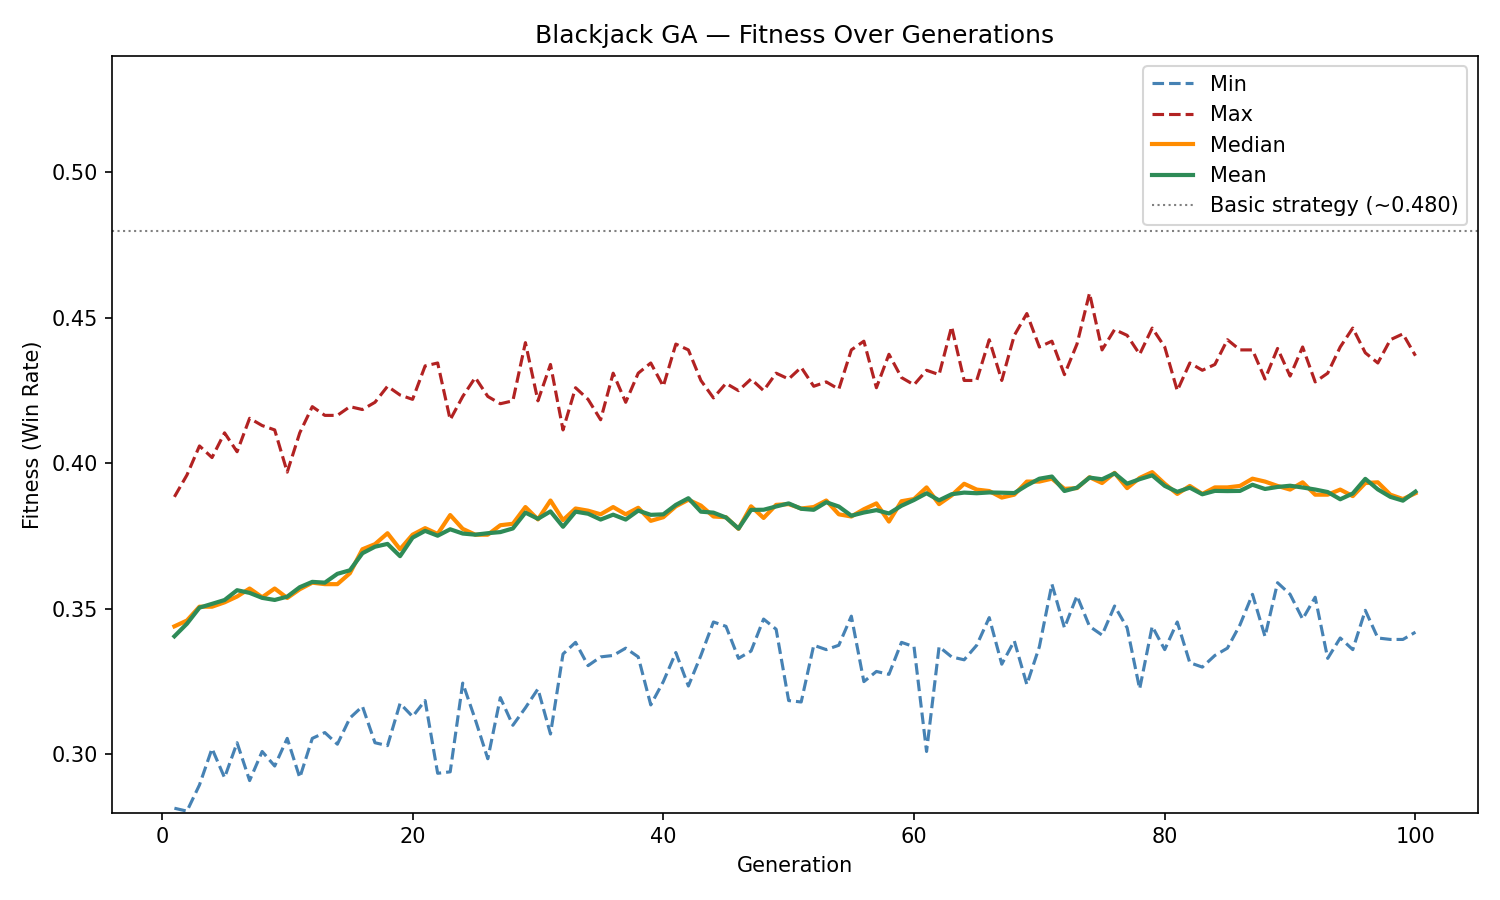
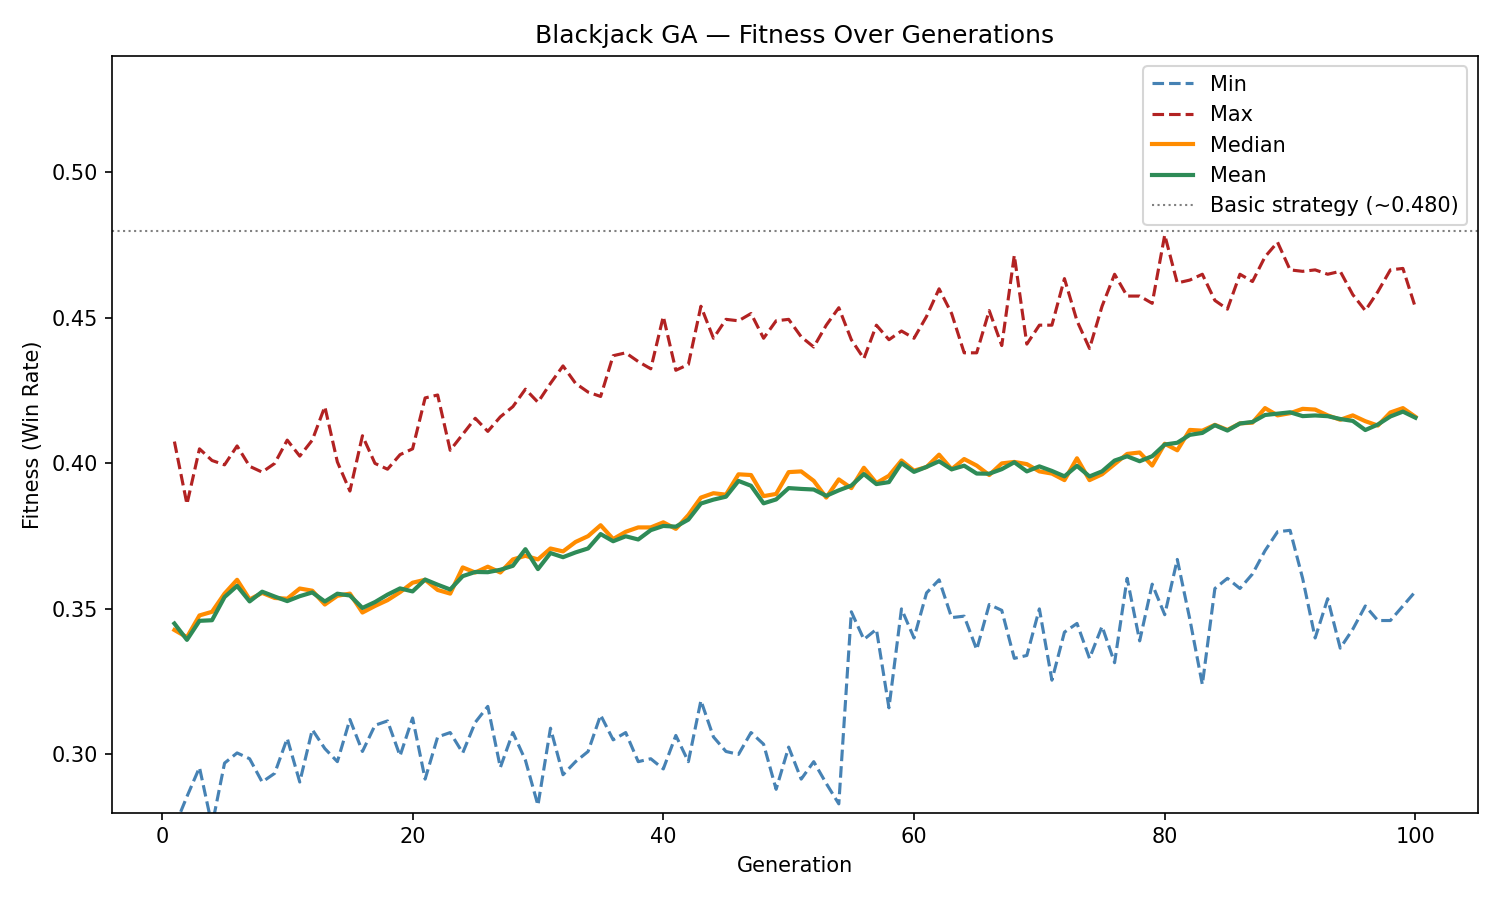
Fix dealer soft-17 rule to stand on all 17s (S17)
The dealer was incorrectly hitting on soft 17 (H17 rule). Changed to
stand on any total >= 17 per the assignment spec, and regenerated output figures.

diff --git a/blackjack_ga.py b/blackjack_ga.py
@@ -68,10 +68,10 @@ def play_hand(strategy_fn):
     if p_total > 21:
         return 'loss'
 
-    # Dealer turn: stand on hard 17+, hit on soft 17 and below
+    # Dealer turn: stand on all 17s (S17 rule)
     while True:
-        d_total, d_soft = hand_value(dealer)
-        if d_total > 17 or (d_total == 17 and not d_soft):
+        d_total, _ = hand_value(dealer)
+        if d_total >= 17:
             break
         dealer.append(deck.pop())
 
